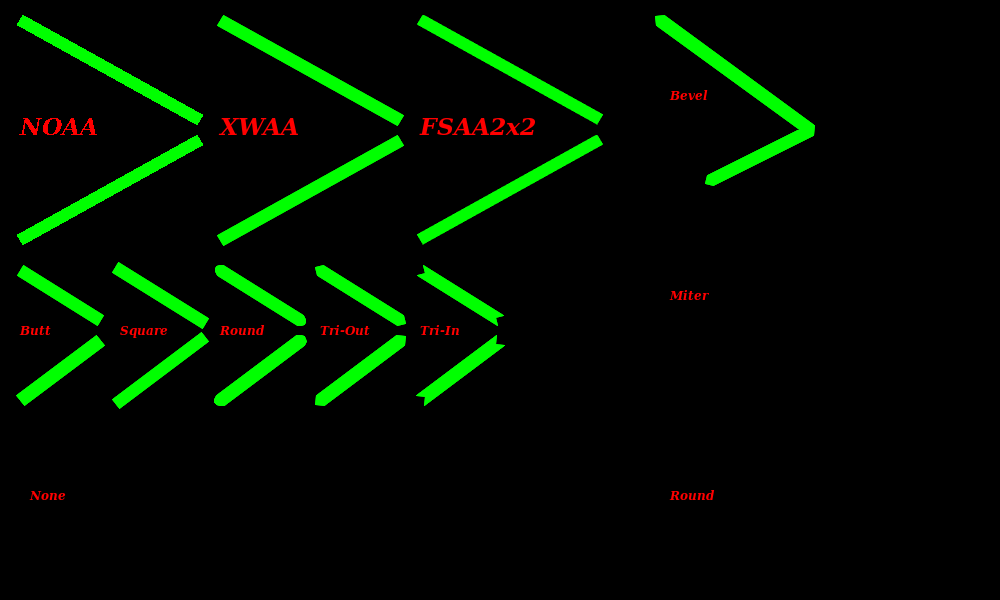
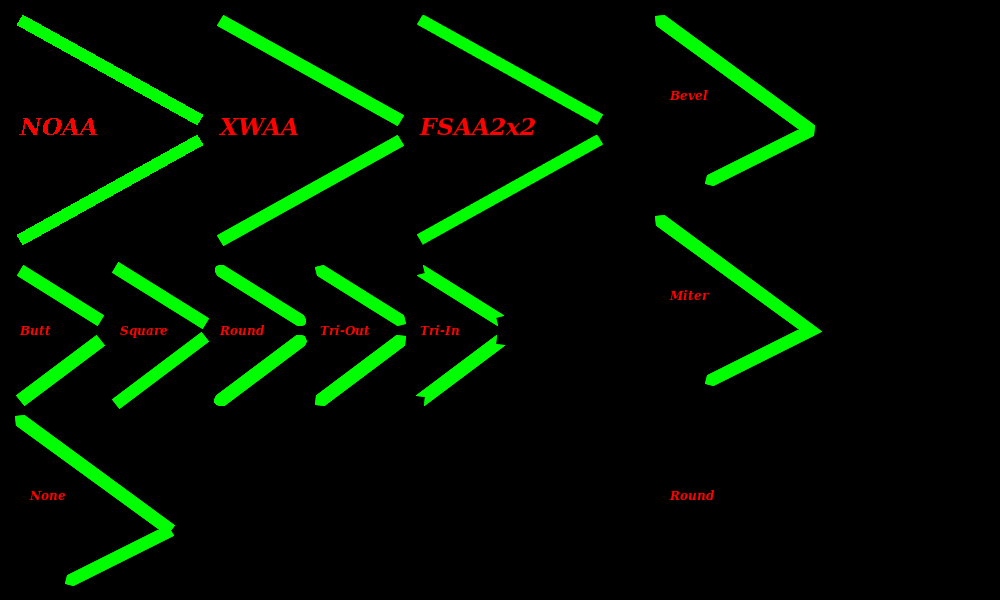
Working on thick polygon outline

Changed region(s): [[0.651, 0.36, 0.837, 0.66], [0.0, 0.69, 0.186, 0.99]]

diff --git a/src/Pt-Gfx/ImagePainter2.cpp b/src/Pt-Gfx/ImagePainter2.cpp
@@ -548,8 +548,12 @@ bool ImagePainter2::thickenOpenPolygon(std::vector<PointF>& pointsF, const Point
         const PointF& to   = *basePtr;
         if(_rasterizer->pen().style() == Pen::Solid) {
             pointsFSegment.clear();
-            generateSolidLineSegment(pointsFSegment, from.x(), from.y(), to.x(), to.y(), i == 0, i == curPC2);
-            if(!combineLineSegmentForOpenPolygon(pointsFPolygon, pointsFInner, pointsFSegment, i == 1, i == curPC2)) return false;
+            generateSolidLineSegment(
+                pointsFSegment, from.x(), from.y(), to.x(), to.y(), i == 0, i == curPC2
+            );
+            if(!combineLineSegmentForOpenPolygon(
+                pointsFPolygon, pointsFInner, pointsFSegment, from, i == 1, i == curPC2
+            )) return false;
         }
         else {
             // ### TODO ###
@@ -567,7 +571,7 @@ bool ImagePainter2::thickenOpenPolygon(std::vector<PointF>& pointsF, const Point
     return true;
 }
 
-bool ImagePainter2::combineLineSegmentForOpenPolygon(std::vector<PointF>& polygon, std::vector<PointF>& inner, const std::vector<PointF>& segment, bool isBeg, bool isEnd)
+bool ImagePainter2::combineLineSegmentForOpenPolygon(std::vector<PointF>& polygon, std::vector<PointF>& inner, const std::vector<PointF>& segment, const PointF& origMeetingPoint, bool isBeg, bool isEnd)
 {
     // If the main polygon buffer is still empty, simply copy the points
     if(polygon.empty()) {
@@ -608,7 +612,9 @@ bool ImagePainter2::combineLineSegmentForOpenPolygon(std::vector<PointF>& polygo
     else {
         switch(_rasterizer->pen().joinStyle()) {
             case Pen::NoJoin:
-                return false;
+                proc.push_back(*line1b);
+                proc.push_back(origMeetingPoint);
+                proc.push_back(*line2a);
                 break;
 
             case Pen::BevelJoin:
@@ -617,7 +623,7 @@ bool ImagePainter2::combineLineSegmentForOpenPolygon(std::vector<PointF>& polygo
                 break;
 
             case Pen::MiterJoin:
-                return false;
+                proc.push_back(intersect);
                 break;
 
             case Pen::RoundJoin:
@@ -665,7 +671,9 @@ bool ImagePainter2::combineLineSegmentForOpenPolygon(std::vector<PointF>& polygo
     else {
         switch(_rasterizer->pen().joinStyle()) {
             case Pen::NoJoin:
-                return false;
+                inner.push_back(*line1b);
+                inner.push_back(origMeetingPoint);
+                inner.push_back(*line2a);
                 break;
 
             case Pen::BevelJoin:
@@ -674,7 +682,7 @@ bool ImagePainter2::combineLineSegmentForOpenPolygon(std::vector<PointF>& polygo
                 break;
 
             case Pen::MiterJoin:
-                return false;
+                inner.push_back(intersect);
                 break;
 
             case Pen::RoundJoin:

diff --git a/include/Pt/Gfx/ImagePainter2.h b/include/Pt/Gfx/ImagePainter2.h
@@ -141,7 +141,7 @@ class PT_GFX_API ImagePainter2 : public Painter
         void generateLineTriangularInCap(std::vector<PointF>& dst, float x, float wh, float y, float px, float py, float nx, float ny);
 
         bool thickenOpenPolygon(std::vector<PointF>& pointsF, const PointF* basePtr, size_t curPCnt);
-        bool combineLineSegmentForOpenPolygon(std::vector<PointF>& polygon, std::vector<PointF>& inner, const std::vector<PointF>& segment, bool isBeg, bool isEnd);
+        bool combineLineSegmentForOpenPolygon(std::vector<PointF>& polygon, std::vector<PointF>& inner, const std::vector<PointF>& segment, const PointF& origMeetingPoint, bool isBeg, bool isEnd);
         void finalizeLineSegmentForOpenPolygon(std::vector<PointF>& polygon, const std::vector<PointF>& inner);
 
         bool thickenClosedPolygon(std::vector<PointF>& pointsF, const PointF* basePtr, size_t curPCnt);
